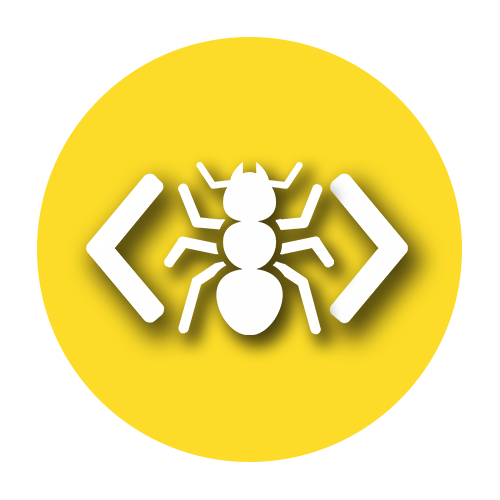
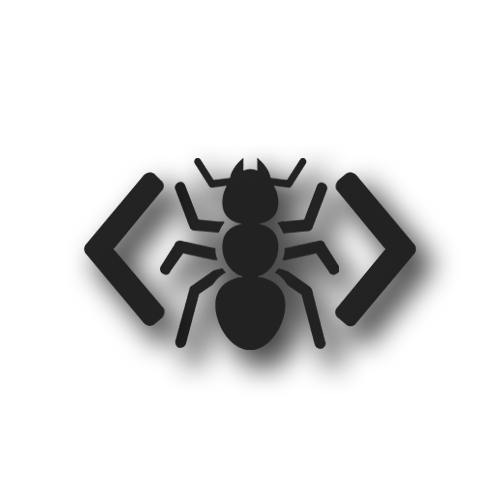
10/07/2018
-Modifications images Forum et Page principale
-Ajout image Menu Forum
-Ajustement header Forum

diff --git a/ProgrammingAnts/css/forum.css b/ProgrammingAnts/css/forum.css
@@ -6,59 +6,108 @@ body {
 
 	/* HEADER */
 
-	header {
-		display: flex;
-		background-color: #131313;
-		height: 60px;
-		box-shadow: 1px 1px 10px black;
-	}
-
-		.programming_ants_name {
-			position: absolute;
-			font-family: Arial Black;
-			font-size: 20px;
-			left: 2.5%;
+		header {
+			display: flex;
+			background-color: #131313;
+			height: 65px;
+			box-shadow: 0px 0px 3px black;
 		}
 
-			header a {
-				color: #df4f48;
-				text-decoration: none;
-			}
+		header a {
+			color: #e7e7e7;
+			text-decoration: none;
+		}
 
 			.programming_ants_logo {
 				position: absolute;
-				top: 10px;
-				left: 37.5%;
+				top: 7px;
+				left: 10%;
 				width: 50px;
 				height: 50px;
 			}
 
-				.programming_ants_expansion {
+			.programming_ants_name {
+				position: absolute;
+				font-family: Helvetica, Arial;
+				font-size: 20px;
+				font-weight: bold;
+				top: -8px;
+				left: 13.5%;
+			}
+
+			.programming_ants_extension {
+				position: absolute;
+				font-size: 20px;
+				font-family: Arial;
+				color: #1e9fd0;
+				left: 32%;
+				top: 25px;
+			}
+
+				#account {
+					display: flex;
 					position: absolute;
-					font-size: 20px;
-					font-family: Arial;
-					color: #1e9fd0;
-					left: 43.5%;
-					top: 28px;
+					top: 20px;
+					left: 66%;
 				}
 
-					#search {
-						background-color: white;
+				.identification {
+					padding-top: 3px;
+					padding-bottom: 5px;
+					padding-left: 10px;
+					padding-right: 10px;
+					width: 53px;
+					height: 15px;
+					border: 2px solid;
+					border-color: #1e9fd0;
+					border-radius: 50px;
+				}
+
+				.identification a {
+					color: #1e9fd0;
+				}
+
+				.identification:hover a {
+					color: #131313;
+				}
+
+				.identification:hover {
+					border-color: #1e9fd0;
+					background-color: #1e9fd0;
+				}
+
+				.identification:nth-child(1) {
+					margin-right: 25px;
+				}
+
+
+					#searching_bar {
+						position: absolute;
+						background-color: #272525;
+						left: 80%;
+						top: 20px;
+						width: 150px;
+						height: 30px;
+						border: 1px solid;
+						border-color: #2b2b2b;
 					}
 
-						#searching_bar {
-							position: absolute;
-							background: black;
-							left: 80%;
-							top: 20px;
-							width: 150px;
-							height: 25px;
+					#ok {
+						position: absolute;
+						height: 30px;
+						width: 30px;
+						top: 20px;
+						left: 91%;
+					}
+
+						#top_menu {
+
 						}
 
-							#ok {
-								position: absolute;
-								height: 30px;
-								width: 30px;
-								top: 20px;
-								left: 95%;
-							}
+						.menu img {
+							position: absolute;
+							width: 35px;
+							height: 35px;
+							top: 17px;
+							left: 94%;
+						}

diff --git a/ProgrammingAnts/html-php/forum.html b/ProgrammingAnts/html-php/forum.html
@@ -14,8 +14,8 @@
 			<header>
 
 				<span class="programming_ants_name"><a href="home.php"><h2>ProgrammingAnts</h2></a></span>
-				<img src="../images/programming_ants.png" class="programming_ants_logo" />
-				<span class="programming_ants_expansion"><i>Forum</i></span>
+				<img src="../images/programming_ants_forum.png" class="programming_ants_logo" />
+				<span class="programming_ants_extension"><i>Forum</i></span>
 
 					<form method="post" action="" id="search">
 						<p>
@@ -23,6 +23,16 @@
 							<input type="image" src="../images/search.png" name="ok" id="ok">
 						</p>
 					</form>
+
+						<div id="account">
+							<div class="identification"><a href="Login_page.html">Sign In</a></div>
+							<div class="identification"><a href="Register_page.html">Sign Up</a></div>
+						</div>
+
+							<div id="top_menu">
+								<div class="menu"><img src="../images/menu.png"></div>
+							
+							</div>
 
 			</header>
 

diff --git a/ProgrammingAnts/html-php/home.php b/ProgrammingAnts/html-php/home.php
@@ -60,8 +60,9 @@ echo 'connected = ' . $_SESSION['connected'] . '<br/>';
 
 					<div class="shortcut"><h3><a href="#">Projects</a></h3></div>
 						<div class="shortcut"><h3><a href="forum.html">Forum</a></h3></div>
-							<div class="shortcut"><h3><a href="#">About</a></h3></div>
-								<div class="shortcut"><h3><a href="#">Contact</a></h3></div>
+							<div class="shortcut"><h3><a href="#">Blog</a></h3></div>
+								<div class="shortcut"><h3><a href="#">About</a></h3></div>
+									<div class="shortcut"><h3><a href="#">Contact</a></h3></div>
 
 				</div>
 			</nav>
